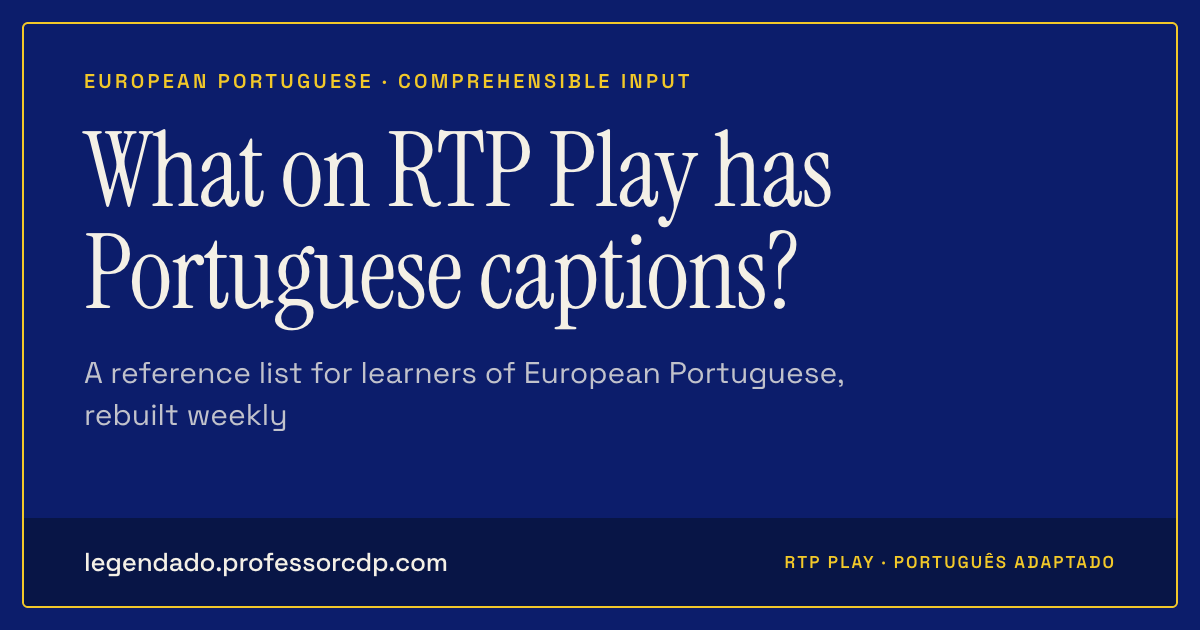
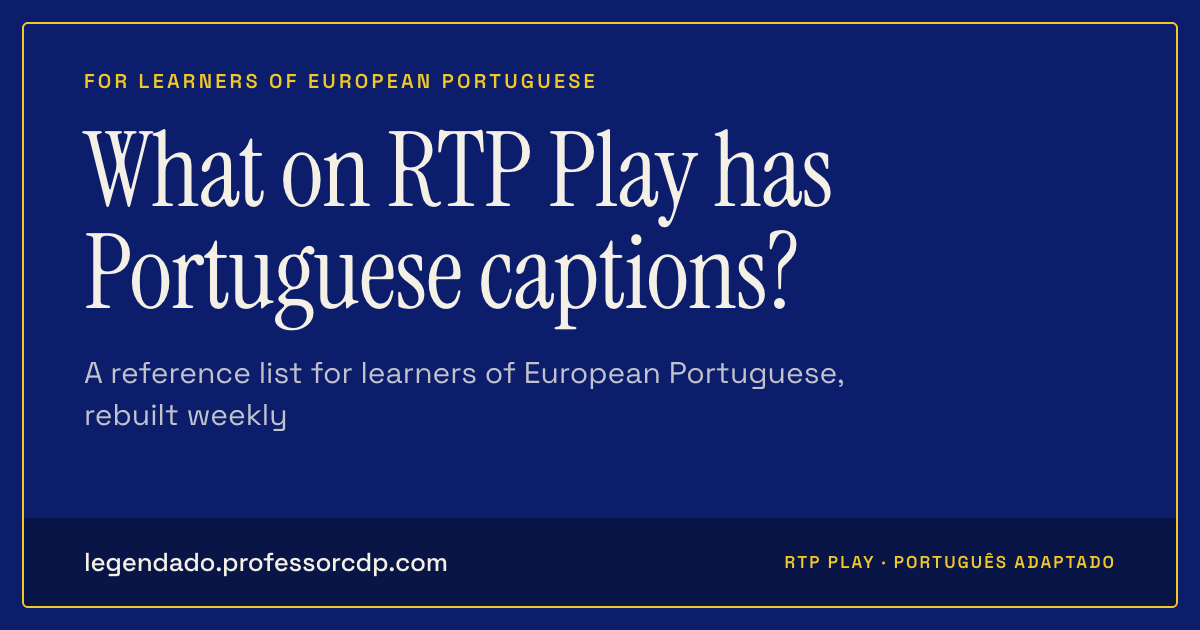
Drop "comprehensible input" from reader-facing text (#43)
Kicker: 'For learners of European Portuguese · checked <date>'; series
blurb, social card (og.png regenerated), README and PROJECT reworded.

Changed region(s): [[0.0617, 0.1206, 0.5858, 0.1508]]

diff --git a/pipeline/templates/page_body.html b/pipeline/templates/page_body.html
@@ -3,7 +3,7 @@
      written into the page as static markup, and the script at the bottom
      only filters and toggles them. -->
 <header class="wrap">
-  <div class="kicker">European Portuguese · comprehensible input · checked {{CHECKED_ON}}</div>
+  <div class="kicker">For learners of European Portuguese · checked {{CHECKED_ON}}</div>
   <h1>What on RTP Play has Portuguese captions?</h1>
   <p class="lede">These are the programs whose latest episode on <a href="https://www.rtp.pt/play/" target="_blank" rel="noopener">RTP Play</a> has Portuguese captions (same-language subtitles, what RTP calls <em>Português adaptado</em>). To turn them on, press <strong>CC</strong> at the bottom right of the player.</p>
   <p class="note">Series and recurring programs carry a description of the show; one-off films and documentaries carry the description RTP gives that title. Each title and description has an English translation underneath — hide them with the checkbox below to test your reading first.</p>

diff --git a/pipeline/step07_render.py b/pipeline/step07_render.py
@@ -35,7 +35,7 @@ from common import ROOT, load_json, log, save_json
 # Page sections in display order: (section key, anchor id, heading, blurb).
 SECTIONS = [
     ("series", "portuguese-tv-series", "Portuguese TV series",
-     "The richest seam for comprehensible input: recurring characters, everyday speech and plenty of episodes."),
+     "The richest seam: recurring characters, everyday speech and plenty of episodes."),
     ("film", "portuguese-films", "Portuguese films & TV films",
      "One-offs. Harder going than series — no recurring vocabulary to settle into — but the captions match the audio."),
     ("fun", "comedy-entertainment", "Comedy, game shows & entertainment",

diff --git a/pipeline/tools/make_og.py b/pipeline/tools/make_og.py
@@ -25,7 +25,7 @@ PIPELINE = Path(__file__).resolve().parent.parent
 FONTS = PIPELINE / "templates" / "fonts"
 
 HEADLINE = "What on RTP Play has Portuguese captions?"
-KICKER = "European Portuguese · comprehensible input"
+KICKER = "For learners of European Portuguese"
 LINE = "A reference list for learners of European Portuguese, rebuilt weekly"
 ADDRESS = "legendado.professorcdp.com"
 

diff --git a/PROJECT.md b/PROJECT.md
@@ -6,7 +6,7 @@
 **GitHub:** the repo is owned by the professorcdp organization (business). Work is done while signed in as jamminalley, Jim's own GitHub login, which is an admin of that organization. That is intended (confirmed by Jim, 2026-10-09; see docs/decisions/0001-move-to-professorcdp-org.md).
 
 ## Overview
-A reference list of the programs on [RTP Play](https://www.rtp.pt/play/) that carry Portuguese captions (same-language subtitles). It's for learners of European Portuguese who want comprehensible input: shows they can watch while reading along in Portuguese. The first version was published on 12 September 2026 and has already been shared with students.
+A reference list of the programs on [RTP Play](https://www.rtp.pt/play/) that carry Portuguese captions (same-language subtitles). It's for learners of European Portuguese who want to watch while reading along. The first version was published on 12 September 2026 and has already been shared with students.
 
 ## Expected output
 A single self-contained web page (no external requests, no tracking) served from GitHub Pages at https://legendado.professorcdp.com/, plus the same data as a spreadsheet (`rtp-play-legendado.csv`). Both are rebuilt every week from `pipeline/` by `.github/workflows/site.yml`.

diff --git a/README.md b/README.md
@@ -3,7 +3,7 @@
 **https://legendado.professorcdp.com/**
 
 A reference list of the programs on [RTP Play](https://www.rtp.pt/play/) that carry Portuguese
-captions (same-language subtitles), for learners of European Portuguese who want comprehensible input.
+captions (same-language subtitles), for learners of European Portuguese who want to watch while reading along.
 
 ## What's on the page
 
